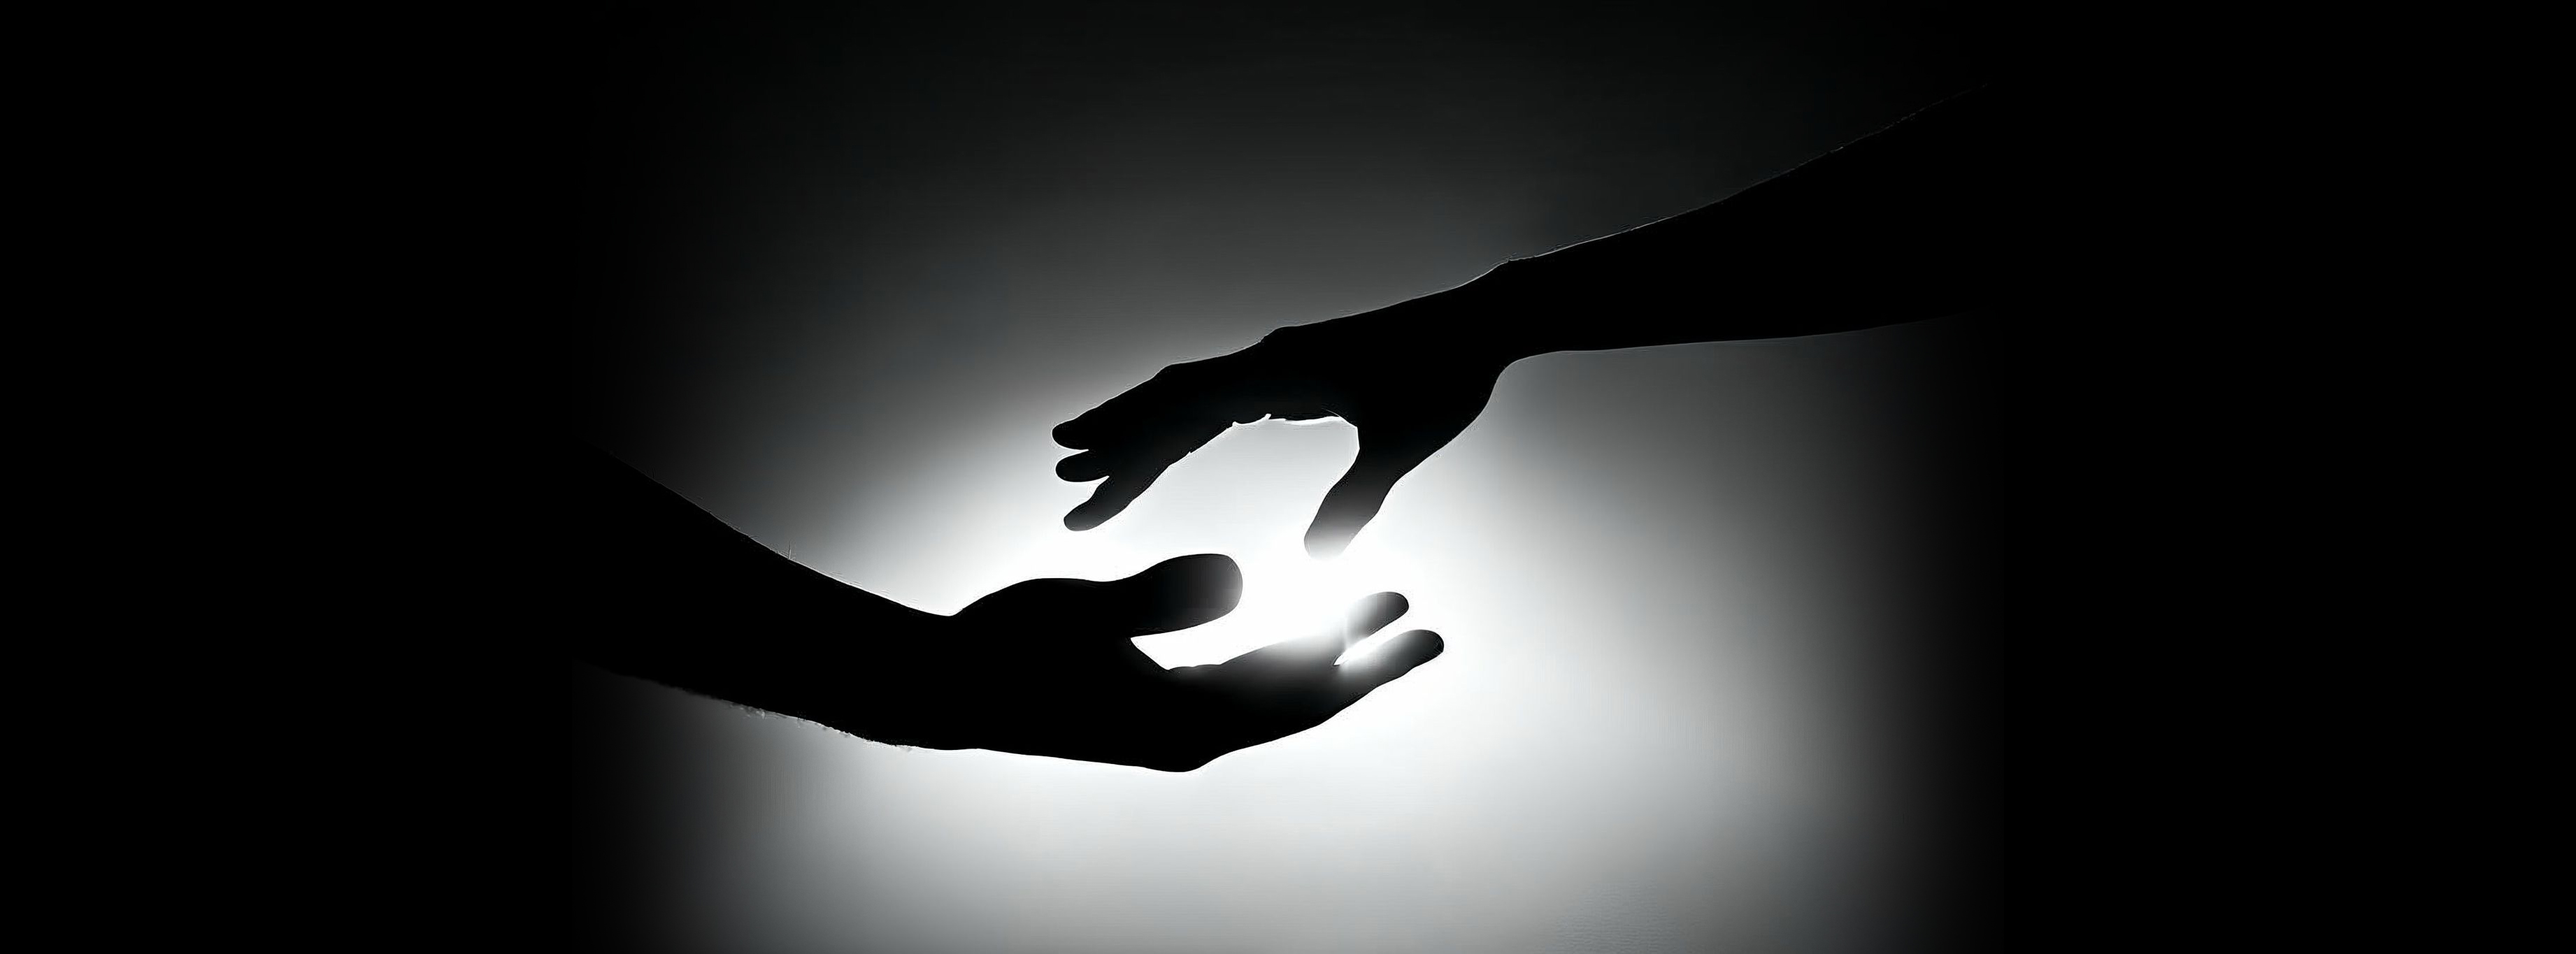
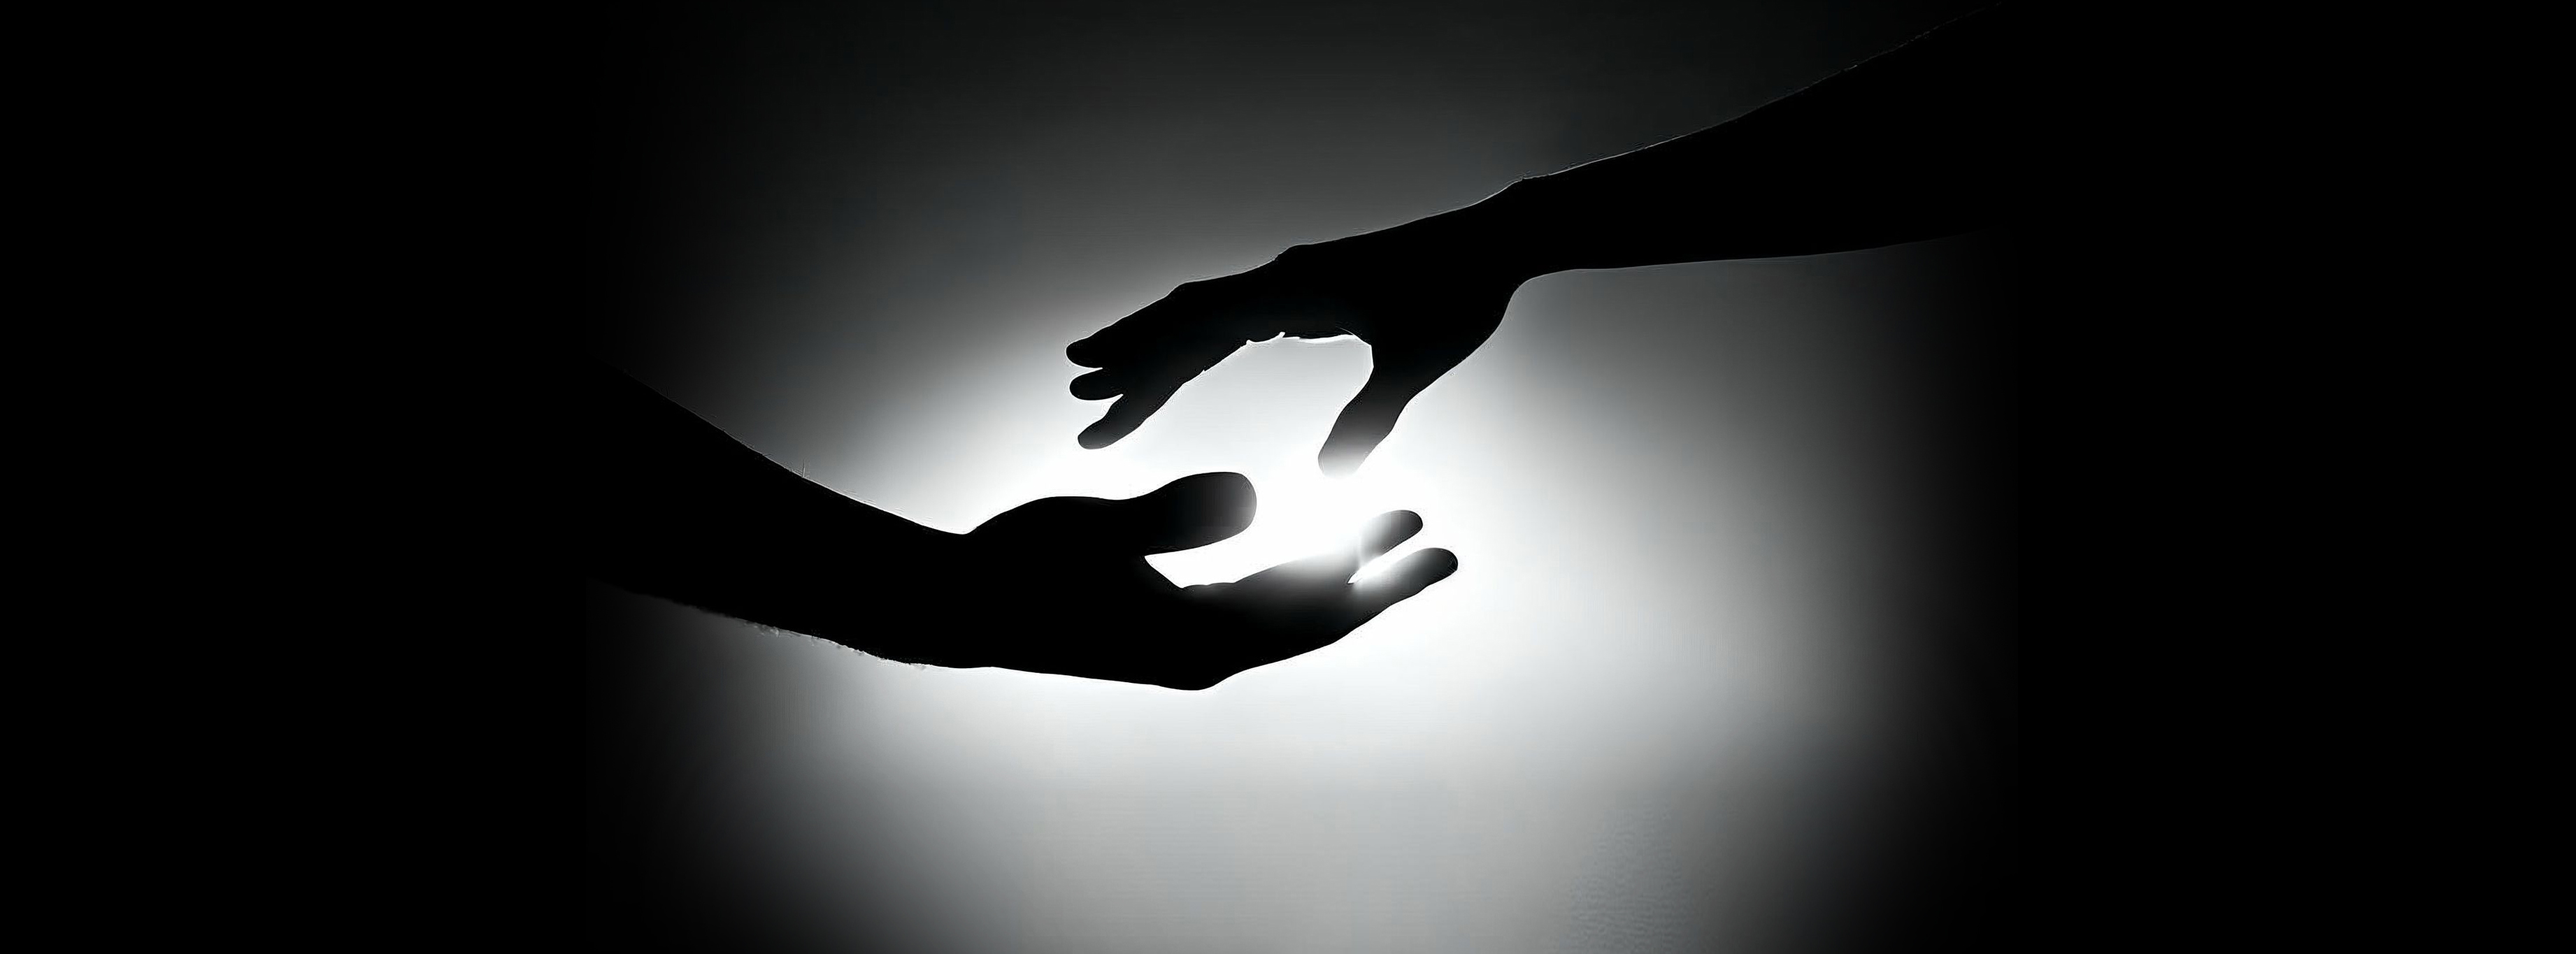
polish

Changed region(s): [[0.2497, 0.1231, 0.7492, 1.0]]

diff --git a/styles.css b/styles.css
@@ -1003,49 +1003,63 @@ img {
   background-color: var(--background);
   position: relative;
   overflow: hidden;
-  --footer-hope-x: 40%;
-  --footer-hope-y: 55%;
-  /* "Zoom" without transforms (prevents iOS Safari bottom-scroll repaint quirks) */
-  --footer-hope-bleed: 0%;
 }
 
 .footer::before {
   content: "";
   position: absolute;
-  inset: calc(var(--footer-hope-bleed) * -1);
+  inset: 0;
   background-image: url("img/footer_hope.jpeg");
   background-repeat: no-repeat;
   background-size: cover;
-  background-position: var(--footer-hope-x) var(--footer-hope-y);
+  background-position: center center;
   opacity: 0.22;
   pointer-events: none;
 }
 
 .footer-container {
   max-width: 1400px;
+  width: 100%;
   margin: 0 auto;
   display: flex;
   flex-direction: column;
   align-items: center;
-  gap: 1.5rem;
+  justify-content: space-between;
+  min-height: 6.5rem;
+  gap: 0.75rem;
   position: relative;
   z-index: 1;
 }
 
 .footer-logo {
-  font-size: 1.25rem;
+  font-size: 1.1rem;
   font-weight: 600;
-  letter-spacing: 0.3em;
+  letter-spacing: 0.1em;
 }
 
 .footer-text {
   font-size: 0.75rem;
   color: rgba(232, 224, 208, 0.5);
+  text-align: center;
+  transform: translateY(8px);
+}
+
+.footer-social-wrap {
+  position: absolute;
+  inset: 0;
+  display: flex;
+  align-items: center;
+  justify-content: center;
+  z-index: 1;
+  pointer-events: none;
 }
 
 .footer-social {
   display: flex;
   gap: 1.5rem;
+  align-items: center;
+  justify-content: center;
+  pointer-events: auto;
 }
 
 .social-link {
@@ -1060,6 +1074,12 @@ img {
 /* =============================================
    RESPONSIVE DESIGN
    ============================================= */
+
+@media (min-width: 1025px) and (hover: hover) and (pointer: fine) {
+  .footer::before {
+    background-size: 80% auto;
+  }
+}
 
 @media (max-width: 960px) {
   .nav-left, .nav-right {
@@ -1094,13 +1114,6 @@ img {
   }
 }
 
-@media (max-width: 600px) {
-  .footer {
-    --footer-hope-x: 50%;
-    --footer-hope-y: 55%;
-  }
-}
-
 @media (max-width: 1200px) {
   .about-container {
     grid-template-columns: 1fr;
@@ -1115,10 +1128,7 @@ img {
 
 /* Tablet */
 @media (max-width: 1024px) {
-  .footer {
-    --footer-hope-x: 50%;
-    --footer-hope-y: 50%;
-  }
+
   .nav-link {
     font-size: 0.7rem;
   }
@@ -1142,6 +1152,12 @@ img {
   }
 }
 
+@media (min-width: 769px) and (max-width: 1024px) {
+  .footer-container {
+    transform: translateY(-20px);
+  }
+}
+
 /* Mobile */
 @media (max-width: 768px) {
   .header {
@@ -1150,10 +1166,6 @@ img {
 
   .header.scrolled {
     backdrop-filter: none;
-  }
-
-  .footer {
-    --footer-hope-bleed: 0%;
   }
 
   .hero,

diff --git a/index.html b/index.html
@@ -231,6 +231,8 @@
       <div class="footer-container">
         <a href="#hero" class="footer-logo">SupraMar</a>
         <p class="footer-text">© 2025 SupraMar Fitness Club. All rights reserved.</p>
+      </div>
+      <div class="footer-social-wrap">
         <div class="footer-social">
           <a href="https://www.instagram.com/supramar.nyc/" class="social-link" aria-label="Instagram">
             <svg width="20" height="20" viewBox="0 0 24 24" fill="none" stroke="currentColor" stroke-width="1.5">
